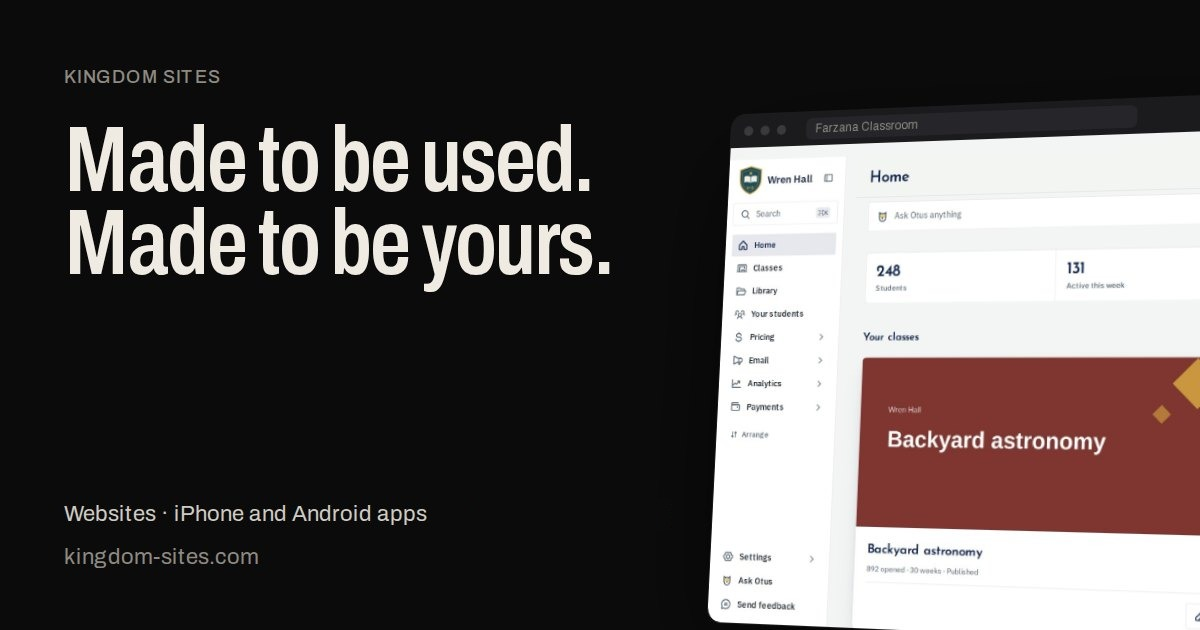
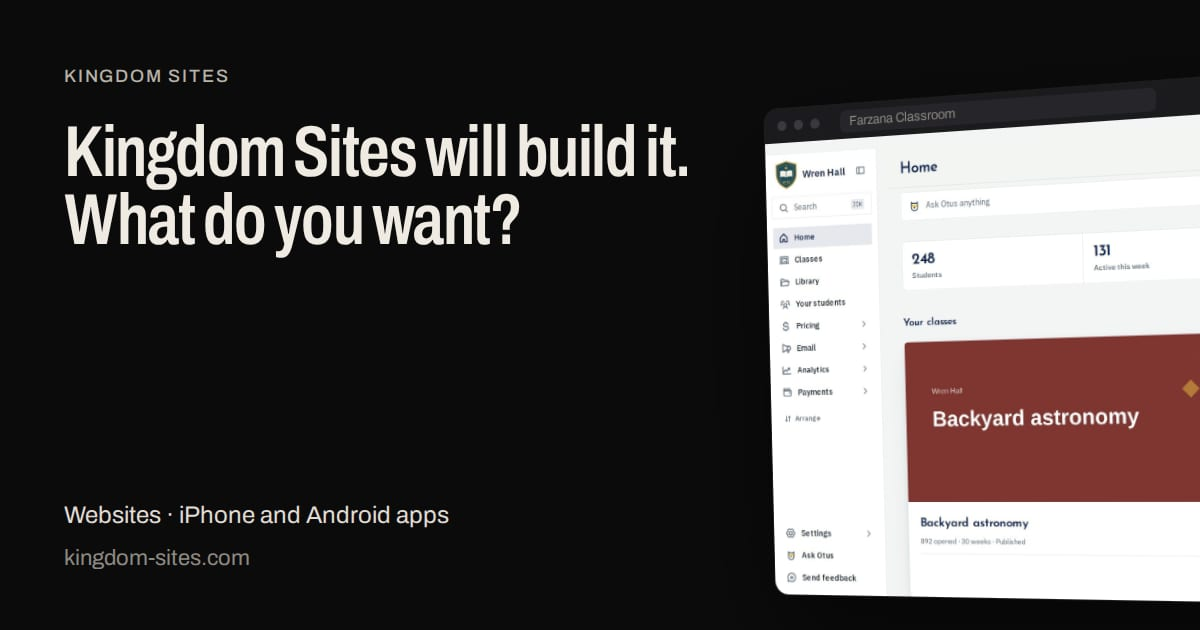
Home headline: "Kingdom Sites will build it. What do you want?" with a link to the Portfolio (T-403)
The home page heading now reads, on two lines, "Kingdom Sites will build it." and
"What do you want?", with "See what others built" under it, linking to the
Portfolio. The same words are the home page title, the share picture and its
description, and what the site chat knows as the headline. The share picture is
now drawn by scripts/site-card.mjs, so it can be redrawn when the words change.

Claude-Session: https://claude.ai/code/session_01XyyhVgJbBJ6sXPVn8cTLTq

diff --git a/src/components/cinematic/cinematic.css b/src/components/cinematic/cinematic.css
@@ -23,6 +23,12 @@
 
 .cn-display { font-family: var(--cn-sans), system-ui, sans-serif; font-variation-settings: 'wdth' 72; font-weight: 600; letter-spacing: -0.02em; line-height: 0.9; }
 .cn-h1 { font-size: clamp(3.1rem, 9.4vw, 10.5rem); }
+/* The home headline (T-403): a little smaller than other display headings so each
+   sentence is one line on a laptop; on a phone the first breaks evenly. Under it, the
+   link to the Portfolio. */
+.cn-h1-hero { font-size: clamp(2.6rem, 7.2vw, 8.6rem); text-wrap: balance; }
+.cn-hero-link { display: inline-flex; align-items: center; gap: 10px; font-size: clamp(17px, 1.4vw, 20px); color: var(--fg); text-decoration: underline; text-decoration-color: rgba(239, 235, 227, 0.35); text-underline-offset: 6px; transition: text-decoration-color 0.2s; }
+.cn-hero-link:hover { text-decoration-color: var(--fg); }
 .cn-h2 { font-size: clamp(2.4rem, 6vw, 6.4rem); }
 .cn-h3 { font-size: clamp(1.8rem, 3.2vw, 3rem); line-height: 0.95; }
 .cn-kicker { font-size: 13px; letter-spacing: 0.08em; text-transform: uppercase; color: var(--dim); font-weight: 500; }

diff --git a/src/app/page.tsx b/src/app/page.tsx
@@ -65,10 +65,13 @@ export default function Home() {
       {/* Hero: the words, then a real screen lying back that stands up as you scroll. */}
       <Scroll mode="sticky" className="cn-hero" aria-label="Kingdom Sites">
         <div className="cn-wrap pt-16 sm:pt-24">
-          <h1 className="cn-display cn-h1">
-            <span className="block">Made to be used.</span>
-            <span className="block">Made to be yours.</span>
+          <h1 className="cn-display cn-h1 cn-h1-hero">
+            <span className="block">Kingdom Sites will build it.</span>
+            <span className="block">What do you want?</span>
           </h1>
+          <Link href="/portfolio" className="cn-hero-link mt-6 sm:mt-8">
+            See what others built <span aria-hidden="true">→</span>
+          </Link>
           <div className="mt-8 grid gap-8 lg:grid-cols-[1.2fr_1fr] lg:items-end">
             <p className="cn-body max-w-[46ch]">
               I build websites and apps for businesses, churches and anyone who needs software. These screens are

diff --git a/src/lib/seo.ts b/src/lib/seo.ts
@@ -21,10 +21,10 @@ export const SITE_OG_IMAGE = {
   url: '/opengraph-image.jpg',
   width: 1200,
   height: 630,
-  alt: 'Kingdom Sites — Made to be used. Made to be yours.',
+  alt: 'Kingdom Sites will build it. What do you want?',
 }
 
-export const SITE_TITLE = 'Kingdom Sites — Made to be used. Made to be yours.'
+export const SITE_TITLE = 'Kingdom Sites will build it. What do you want?'
 
 /* The home page's description. The root layout uses it too, as the fallback
    for any page without its own, so the business reads the same everywhere. */

diff --git a/content/intelligence.md b/content/intelligence.md
@@ -19,7 +19,7 @@
 - It is one engineer, on purpose: when someone writes in, they talk to the person who builds the work. Thomas takes on a small number of projects at a time and would rather stay with a handful of products for years than ship something and disappear.
 - He works for businesses, churches and anyone who needs software.
 - Where Thomas is based: Kingdom Sites is based in Rochester, Minnesota. Thomas is currently working from abroad, and he does not say where. Client work carries on from there on the same timelines. If someone asks where he is from or where he is based, answer with Rochester, Minnesota, and say he is currently working from abroad.
-- The site's line: "Made to be used. Made to be yours." Every screen shown on the site is from software Thomas built or worked on.
+- The site's headline: "Kingdom Sites will build it. What do you want?" Every screen shown on the site is from software Thomas built or worked on.
 - Thomas is taking on new projects now, and welcomes anyone with an idea to get in touch.
 
 ## Background
